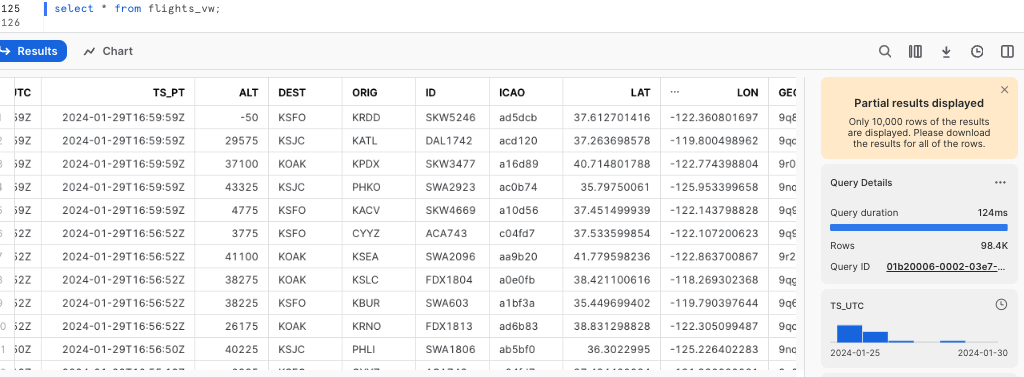
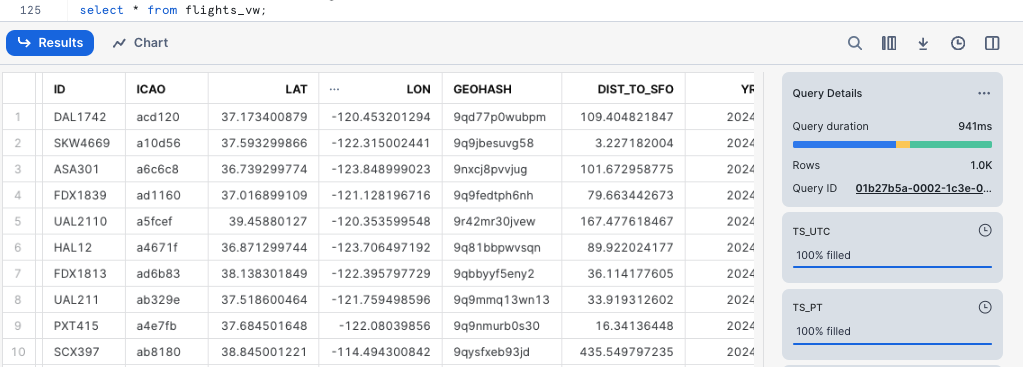
update to latest claat

diff --git a/site/sfguides/src/getting_started_with_snowflake_and_aws_kdf/getting_started_with__snowflake_and_aws_kdf.md b/site/sfguides/src/getting_started_with_snowflake_and_aws_kdf/getting_started_with__snowflake_and_aws_kdf.md
@@ -415,7 +415,8 @@ create or replace view flights_vw
     icao::string icao,
     lat::float lat,
     lon::float lon,
-    st_geohash(to_geography(ST_MAKEPOINT(lon, lat)),12) geohash,
+    st_geohash(to_geography(st_makepoint(lon, lat)),12) geohash,
+    st_distance(st_makepoint(-122.366340, 37.616245), st_makepoint(lon, lat))/1609::float dist_to_sfo,
     year(ts_pt) yr,
     month(ts_pt) mo,
     day(ts_pt) dd,
@@ -423,7 +424,8 @@ create or replace view flights_vw
 FROM adf_streaming_tbl;
 ```
 
-The SQL command creates a view, convert timestamps to different time zones, and use Snowflake's [Geohash function](https://docs.snowflake.com/en/sql-reference/functions/st_geohash.html)  to generate geohashes that can be used in time-series visualization tools such as Grafana.
+The SQL command creates a view, convert timestamps to different time zones, and use Snowflake's [Geohash function](https://docs.snowflake.com/en/sql-reference/functions/st_geohash.html) to generate geohashes that can be used in time-series visualization tools such as Grafana.
+You can also easily calculate the distance in miles between two geo locations. In above example, the `st_distance` function is used to calculate the distance between an airplane and San Francisco Airport.
 
 Let's query the view `flights_vw` now.
 ```commandline
